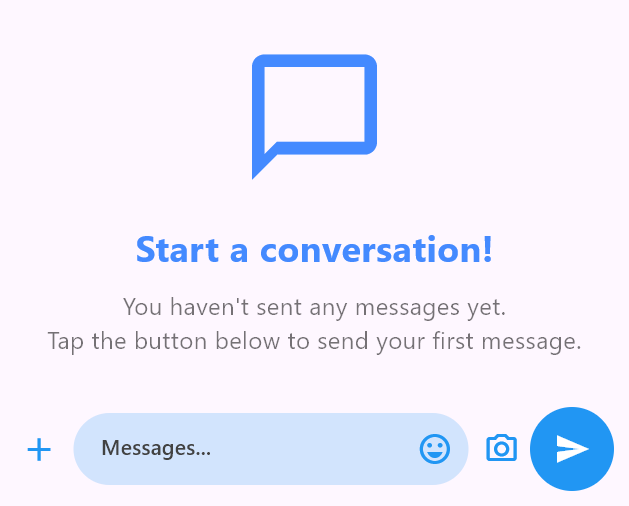
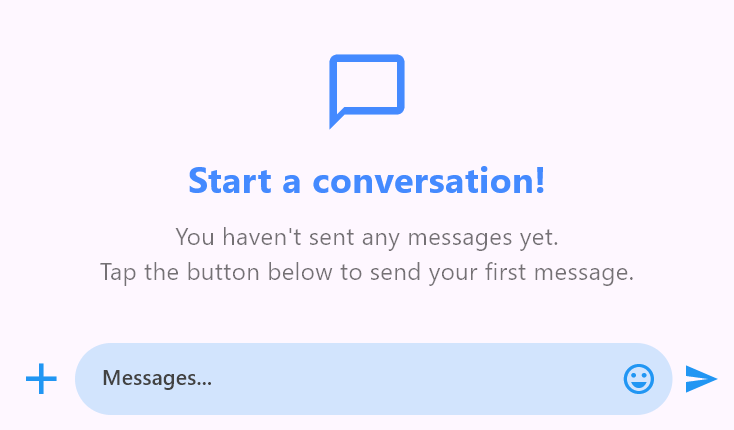
FLUT-910354-[others][flutter]: Updated the composer file and image

Changed region(s): [[0.0604, 0.393, 0.9364, 0.6953], [0.0302, 0.786, 0.9968, 0.9674], [0.3927, 0.0907, 0.6041, 0.3628]]

diff --git a/Flutter/chat/composer.md b/Flutter/chat/composer.md
@@ -72,20 +72,43 @@ The ['border'](https://api.flutter.dev/flutter/material/InputDecoration/border.h
 {% tabs %}
 {% highlight dart %}
 
-  // Load if there are existing messages.
-  final List<ChatMessage> _messages = <ChatMessage>[];
+  late List<ChatMessage> _messages;
+
+  @override
+  void initState() {
+    _messages = <ChatMessage>[
+      ChatMessage(
+        text: 'Hi, how was your day?',
+        time: DateTime.now(),
+        author: const ChatAuthor(
+          id: '123-001',
+          name: 'Anita',
+        ),
+      ),
+      ChatMessage(
+        text: 'It was great. How about you.',
+        time: DateTime.now(),
+        author: const ChatAuthor(
+          id: '123-005',
+          name: 'Clara',
+        ),
+      ),
+    ];
+    super.initState();
+  }
 
   @override
   Widget build(BuildContext context) {
     return Scaffold(
-      body: SfChat(
-        messages: _messages,
-        outgoingUser: '123-001',
-        composer: const ChatComposer(
-          decoration: InputDecoration(
-            border: OutlineInputBorder(
-              borderRadius: BorderRadius.all(
-                Radius.circular(10.0),
+      body: Padding(
+        padding: const EdgeInsets.all(10.0),
+        child: SfChat(
+          messages: _messages,
+          outgoingUser: '123-005',
+          composer: ChatComposer(
+            decoration: InputDecoration(
+              border: OutlineInputBorder(
+                borderRadius: BorderRadius.circular(10),
               ),
             ),
           ),
@@ -96,6 +119,8 @@ The ['border'](https://api.flutter.dev/flutter/material/InputDecoration/border.h
 
 {% endhighlight %}
 {% endtabs %}
+
+![Chat composer border](images/composer/composer-border.png)
 
 #### Content padding
 
@@ -154,6 +179,8 @@ The ['hintText'](https://api.flutter.dev/flutter/material/InputDecoration/hintTe
 {% endhighlight %}
 {% endtabs %}
 
+![Chat composer hintText](images/composer/composer-hintText.png)
+
 #### Hint text style
 
 The ['hintStyle'](https://api.flutter.dev/flutter/material/InputDecoration/hintStyle.html) property refers to the text style of the hint text.
@@ -175,6 +202,8 @@ The ['hintStyle'](https://api.flutter.dev/flutter/material/InputDecoration/hintS
             hintText: 'Type a message',
             hintStyle: TextStyle(
               color: Colors.blue,
+              fontSize: 16,
+              fontStyle: FontStyle.italic,
             ),
           ),
         ),
@@ -185,6 +214,8 @@ The ['hintStyle'](https://api.flutter.dev/flutter/material/InputDecoration/hintS
 {% endhighlight %}
 {% endtabs %}
 
+![Chat composer hintTextStyle](images/composer/composer-hintTextStyle.png)
+
 #### Prefix and suffix icons
 
 The ['prefixIcon'](https://api.flutter.dev/flutter/material/InputDecoration/prefixIcon.html) and ['suffixIcon'](https://api.flutter.dev/flutter/material/InputDecoration/suffixIcon.html) properties are used to add icons at the beginning and end of the text field, respectively.
@@ -192,30 +223,57 @@ The ['prefixIcon'](https://api.flutter.dev/flutter/material/InputDecoration/pref
 {% tabs %}
 {% highlight dart %}
 
-  // Load if there are existing messages.
-  final List<ChatMessage> _messages = <ChatMessage>[];
+  late List<ChatMessage> _messages;
+
+  @override
+  void initState() {
+    _messages = <ChatMessage>[
+      ChatMessage(
+        text: 'Hello, how can I help you today?',
+        time: DateTime.now(),
+        author: const ChatAuthor(
+          id: '123-001',
+          name: 'Sheila',
+        ),
+      ),
+      ChatMessage(
+        text: 'I need help with my current order.',
+        time: DateTime.now(),
+        author: const ChatAuthor(
+          id: '123-005',
+          name: 'Alex',
+        ),
+      ),
+    ];
+    super.initState();
+  }
 
   @override
   Widget build(BuildContext context) {
     return Scaffold(
-      body: SfChat(
-        messages: _messages,
-        outgoingUser: '123-001',
-        composer: const ChatComposer(
-          decoration: InputDecoration(
-            prefixIcon: Icon(
-              Icons.attachment,
-              color: Colors.blue,
-            ),
-            suffixIcon: Icon(
-              Icons.send,
-              color: Colors.blue,
+      body: Padding(
+        padding: const EdgeInsets.all(10.0),
+        child: SfChat(
+          messages: _messages,
+          outgoingUser: '123-005',
+          composer: const ChatComposer(
+            decoration: InputDecoration(
+              prefixIcon: Icon(
+                Icons.attachment,
+                color: Colors.blue,
+              ),
+              suffixIcon: Icon(
+                Icons.camera_alt,
+                color: Colors.blue,
+              ),
             ),
           ),
         ),
       ),
     );
   }
+
+![Chat composer icon](images/composer/composer-icon.png)
 
 {% endhighlight %}
 {% endtabs %}
@@ -229,17 +287,39 @@ By default, the top padding is set to 16.
 {% tabs %}
 {% highlight dart %}
 
-  // Load if there are existing messages.
-  final List<ChatMessage> _messages = <ChatMessage>[];
+  late List<ChatMessage> _messages;
+
+  @override
+  void initState() {
+    _messages = <ChatMessage>[
+      ChatMessage(
+        text: 'Hi, did you get my order?',
+        time: DateTime.now(),
+        author: const ChatAuthor(
+          id: '123-001',
+          name: 'Honey',
+        ),
+      ),
+      ChatMessage(
+        text: 'Yes, I got it.',
+        time: DateTime.now(),
+        author: const ChatAuthor(
+          id: '123-005',
+          name: 'Kenny',
+        ),
+      ),
+    ];
+    super.initState();
+  }
 
   @override
   Widget build(BuildContext context) {
     return Scaffold(
       body: SfChat(
         messages: _messages,
-        outgoingUser: '123-001',
+        outgoingUser: '123-005',
         composer: const ChatComposer(
-          padding: EdgeInsets.only(top: 20.0),
+          padding: EdgeInsets.fromLTRB(10, 30, 10, 20),
         ),
       ),
     );
@@ -247,6 +327,8 @@ By default, the top padding is set to 16.
 
 {% endhighlight %}
 {% endtabs %}
+
+![Chat composer padding](images/composer/composer-padding.png)
 
 ### Text style
 
@@ -279,6 +361,8 @@ The specified text style will be merged with the ['bodyMedium'] and ['editorText
 {% endhighlight %}
 {% endtabs %}
 
+![Chat composer text style](images/composer/composer-text-style.png)
+
 ### Builder
 
 The ['ChatComposer.builder'](https://pub.dev/documentation/syncfusion_flutter_chat/latest/syncfusion_flutter_chat/ChatComposer/ChatComposer.builder.html) enables the option to specify any type of widget as a primary composer, which is useful for integrating additional options alongside the text field, such as a microphone button, file attachment button, and so on.
@@ -288,6 +372,7 @@ If ['ChatComposer.builder'](https://pub.dev/documentation/syncfusion_flutter_cha
 {% tabs %}
 {% highlight dart %}
 
+  // Load if there are existing messages.
   final List<ChatMessage> _messages = <ChatMessage>[];
   final TextEditingController _controller = TextEditingController();
 
@@ -298,7 +383,7 @@ If ['ChatComposer.builder'](https://pub.dev/documentation/syncfusion_flutter_cha
         padding: const EdgeInsets.all(10.0),
         child: SfChat(
           messages: _messages,
-          outgoingUser: '123-001',
+          outgoingUser: '123-001',        
           composer: builderComposer(),
         ),
       ),
@@ -310,13 +395,12 @@ If ['ChatComposer.builder'](https://pub.dev/documentation/syncfusion_flutter_cha
       builder: (context) {
         return Row(
           children: [
-            const SizedBox(width: 3),
             const Icon(
               Icons.add,
-              size: 26,
+              size: 35,
               color: Colors.blue,
             ),
-            const SizedBox(width: 10),
+            const SizedBox(width: 5),
             Expanded(
               child: Container(
                 decoration: BoxDecoration(
@@ -350,19 +434,10 @@ If ['ChatComposer.builder'](https://pub.dev/documentation/syncfusion_flutter_cha
                 ),
               ),
             ),
-            const SizedBox(width: 10),
-            const Icon(
-              Icons.camera_alt_outlined,
-              color: Colors.blue,
-            ),
             const SizedBox(width: 7),
-            FloatingActionButton(
-              shape: const CircleBorder(),
-              elevation: 0,
-              backgroundColor: Colors.blue,
-              foregroundColor: Colors.white,
-              onPressed: () {},
-              child: const Icon(Icons.send),
+            const Icon(
+              Icons.send,
+              color: Colors.blue,
             ),
           ],
         );
